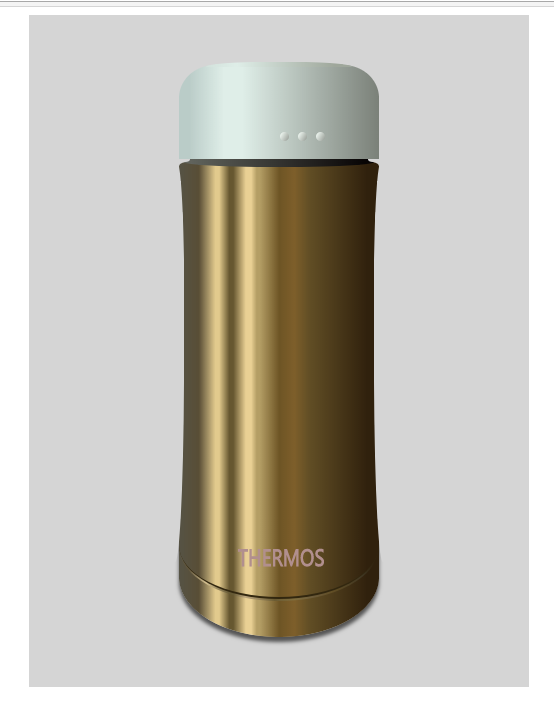
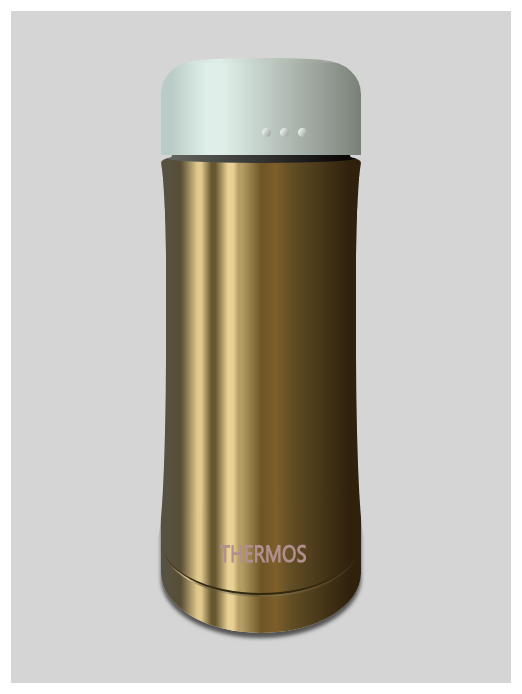
更新定位层级等

Changed region(s): [[0.3065, 0.0908, 0.705, 0.938], [0.0, 0.0, 0.9808, 0.9986], [0.5211, 0.0605, 0.6437, 0.0908]]

diff --git a/thermos.html b/thermos.html
@@ -7,9 +7,9 @@
 #cup{
   position: relative;
   width: 500px;
-  margin: 0 auto;
+  margin: 30px auto;
   background-color: #ddd;
-  z-index: -999;
+  z-index: 9;
   padding: 50px 0;
   font-size: 0px;
 }
@@ -30,7 +30,7 @@
                 rgba(142, 147, 140, 1) 200px
                 );
   border-radius: 36px 36px 0px 0px/33px 33px 0px 0px;
-  z-index: -20;
+  z-index: 20;
 }
 .div1{
   position: absolute;
@@ -145,10 +145,10 @@
   top: 0px;
   left: -6px;
   background-color: #ddd;
-  height: 400px;
+  height: 380px;
   width: 11px;
   border-radius: 0px 7px 9px 0px/0px 122px 200px 0px;
-  z-index: 100;
+  z-index: 4;
 }
 .div6{
   left: auto;
